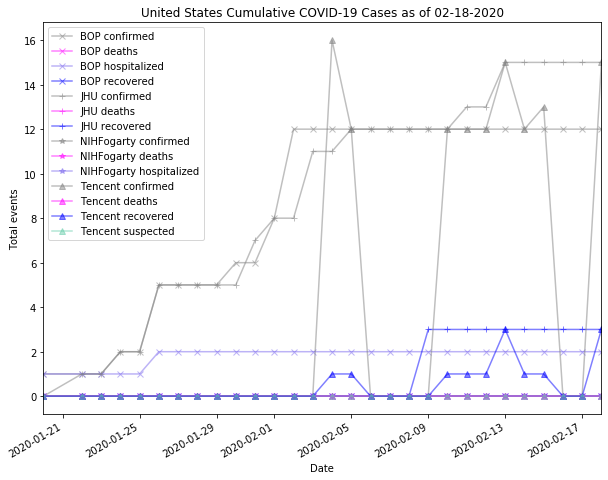
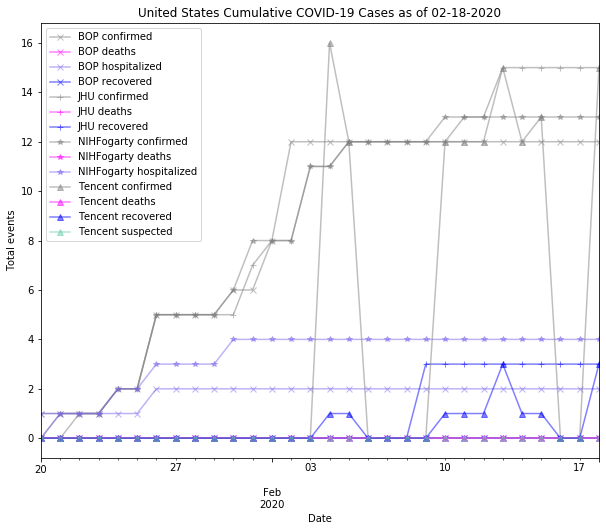
USA fix

diff --git a/country_reports/United_States_report.md b/country_reports/United_States_report.md
@@ -11,20 +11,20 @@
 #### Table 1: Situation summary
 
 
-|                           | BOP              | JHU                         | Tencent                       |
-|---------------------------|------------------|-----------------------------|-------------------------------|
-| First update logged       | 01/12/20         | 01/22/20                    | 02/04/20                      |
-| Last update logged        | 02/06/20         | 02/17/20                    | 02/18/20                      |
-| Method                    | Public line list | Cases by day & country list | Daily cases in country scrape |
-| First known case          | 01/20/20         | 01/22/20                    | 02/06/20                      |
-| Total confirmed cases     | 12               | 15                          | 15                            |
-| New cases since yesterday |                  |                             | 15                            |
-| Total suspected           |                  |                             | 0                             |
-| Total hospitalized        | 2                |                             |                               |
-| Total recovered           | 0                | 3                           | 3                             |
-| Total deaths              | 0                | 0                           | 0                             |
+|                           | BOP              | JHU                         | NIHFogarty       | Tencent                       |
+|---------------------------|------------------|-----------------------------|------------------|-------------------------------|
+| First update logged       | 01/12/20         | 01/22/20                    | 01/13/20         | 02/04/20                      |
+| Last update logged        | 02/06/20         | 02/17/20                    | 02/18/20         | 02/18/20                      |
+| Method                    | Public line list | Cases by day & country list | Public line list | Daily cases in country scrape |
+| First known case          | 01/20/20         | 01/22/20                    | 01/21/20         | 02/06/20                      |
+| Total confirmed cases     | 12               | 15                          | 13               | 15                            |
+| New cases since yesterday |                  |                             |                  | 15                            |
+| Total suspected           |                  |                             |                  | 0                             |
+| Total hospitalized        | 2                |                             | 4                |                               |
+| Total recovered           | 0                | 3                           |                  | 3                             |
+| Total deaths              | 0                | 0                           | 0                | 0                             |
 
-Data sources: BOP, JHU, Tencent
+Data sources: BOP, JHU, NIH-Fogarty, Tencent
 
 
 ### Geographic dispersal:
@@ -37,29 +37,44 @@ Data sources: BOP, JHU, Tencent
 |    | source   | loc_name                        |   confirmed |
 |----|----------|---------------------------------|-------------|
 |  0 | Tencent  | United States                   |          15 |
-|  1 | JHU      | San Benito, CA, US              |           2 |
-|  2 | JHU      | Chicago, IL, US                 |           2 |
-|  3 | JHU      | San Diego County, CA, US        |           2 |
-|  4 | JHU      | Santa Clara, CA, US             |           2 |
-|  5 | JHU      | Boston, MA, US                  |           1 |
-|  6 | JHU      | Madison, WI, US                 |           1 |
-|  7 | JHU      | Los Angeles, CA, US             |           1 |
-|  8 | JHU      | San Antonio, TX, US             |           1 |
-|  9 | JHU      | Orange, CA, US                  |           1 |
-| 10 | JHU      | Tempe, AZ, US                   |           1 |
-| 11 | JHU      | Seattle, WA, US                 |           1 |
-| 12 | BOP      | California, United States       |           6 |
-| 13 | BOP      | Illinois, United States         |           2 |
-| 14 | BOP      | Wisconsin, United States        |           1 |
-| 15 | BOP      | Washington State, United States |           1 |
-| 16 | BOP      | Arizona, United States          |           1 |
-| 17 | BOP      | Massachusetts, United States    |           1 |
+|  1 | NIH      | California, United States       |           7 |
+|  2 | NIH      | Boston, United States           |           1 |
+|  3 | NIH      | Arizona, United States          |           1 |
+|  4 | NIH      | Washington, United States       |           1 |
+|  5 | NIH      | Illinois, United States         |           1 |
+|  6 | NIH      | Wisconsin, United States        |           1 |
+|  7 | NIH      | Chicago, United States          |           1 |
+|  8 | JHU      | San Benito, CA, US              |           2 |
+|  9 | JHU      | Chicago, IL, US                 |           2 |
+| 10 | JHU      | San Diego County, CA, US        |           2 |
+| 11 | JHU      | Santa Clara, CA, US             |           2 |
+| 12 | JHU      | Boston, MA, US                  |           1 |
+| 13 | JHU      | Tempe, AZ, US                   |           1 |
+| 14 | JHU      | Madison, WI, US                 |           1 |
+| 15 | JHU      | Orange, CA, US                  |           1 |
+| 16 | JHU      | Los Angeles, CA, US             |           1 |
+| 17 | JHU      | San Antonio, TX, US             |           1 |
+| 18 | JHU      | Seattle, WA, US                 |           1 |
+| 19 | BOP      | California, United States       |           6 |
+| 20 | BOP      | Illinois, United States         |           2 |
+| 21 | BOP      | Massachusetts, United States    |           1 |
+| 22 | BOP      | Arizona, United States          |           1 |
+| 23 | BOP      | Washington State, United States |           1 |
+| 24 | BOP      | Wisconsin, United States        |           1 |
 
-Data sources: BOP, JHU, Tencent
+Data sources: BOP, JHU, NIH-Fogarty, Tencent
 
 
 ### Observed case clusters:
 #### Fig 3:
+![United States cases](../cluster_analysis/United_States_imported_cases_NIHFogarty.png)
+
+
+
+Data source: NIH-Fogarty
+
+
+#### Fig 4:
 ![United States cases](../cluster_analysis/United_States_imported_cases_BOP.png)
 
 
